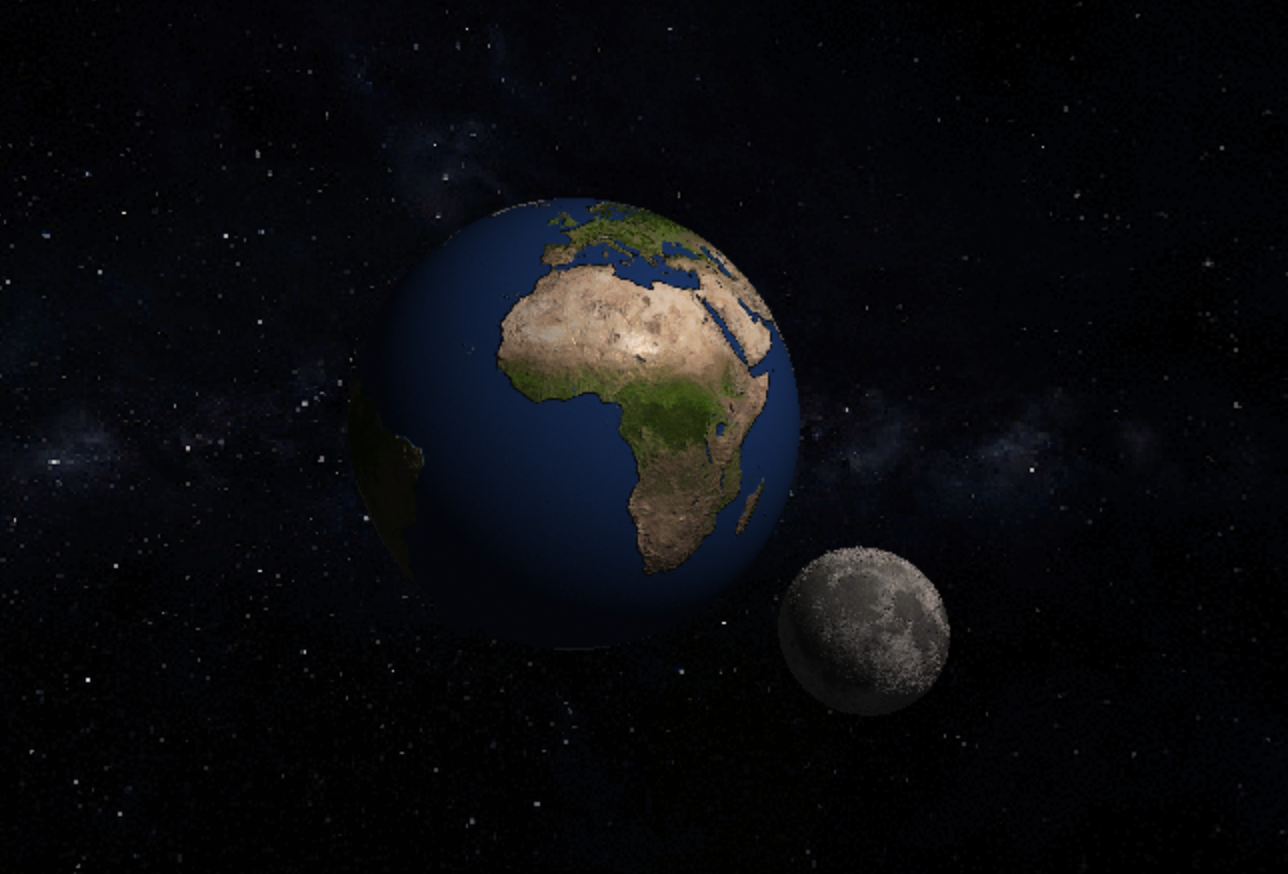
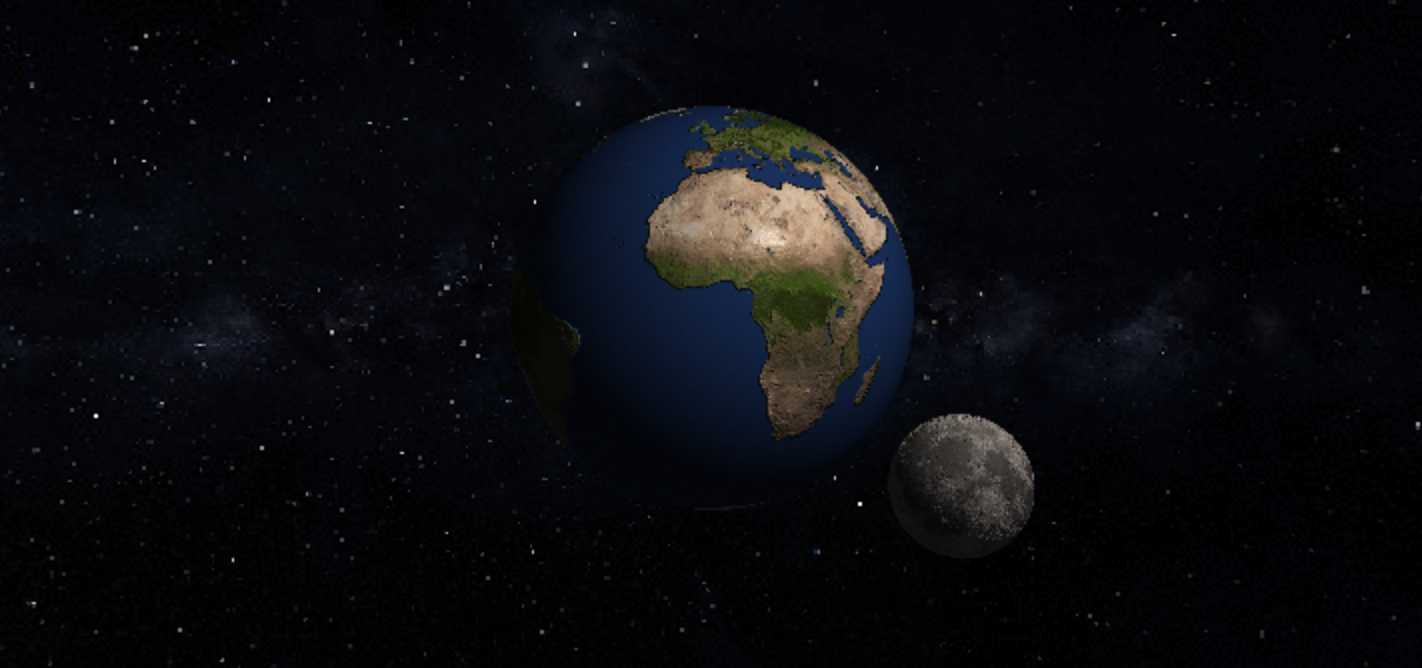
Modification images readme again

diff --git a/README.md b/README.md
@@ -24,20 +24,20 @@ system.
 
 ## Examples
 
-./webserv scenes/plan.rt
 ![plan](img/plan.png "plan")
+*scenes/plan.rt*
 
-./webserv_bonus scenes_bonus/multi.rt
-![cone](img/cone.png "cone")
+![cones](img/cones.png "cones")
+*scenes_bonus/multi.rt*
 
-./webserv_bonus scenes_bonus/checker.rt
 ![checker](img/checker.png "checker")
+*scenes_bonus/checker.rt*
 
-./webserv_bonus scenes_bonus/earth.rt
 ![earth](img/earth.png "earth")
+*scenes_bonus/earth.rt*
 
-./webserv_bonus scenes_bonus/saturn.rt
 ![saturn](img/saturn.png "saturn")
+*scenes_bonus/saturn.rt*
 
-./webserv_bonus scenes_bonus/solar_system.rt
 ![solar_system](img/solar_system.png "solar_system")
+*scenes_bonus/solar_system.rt*
